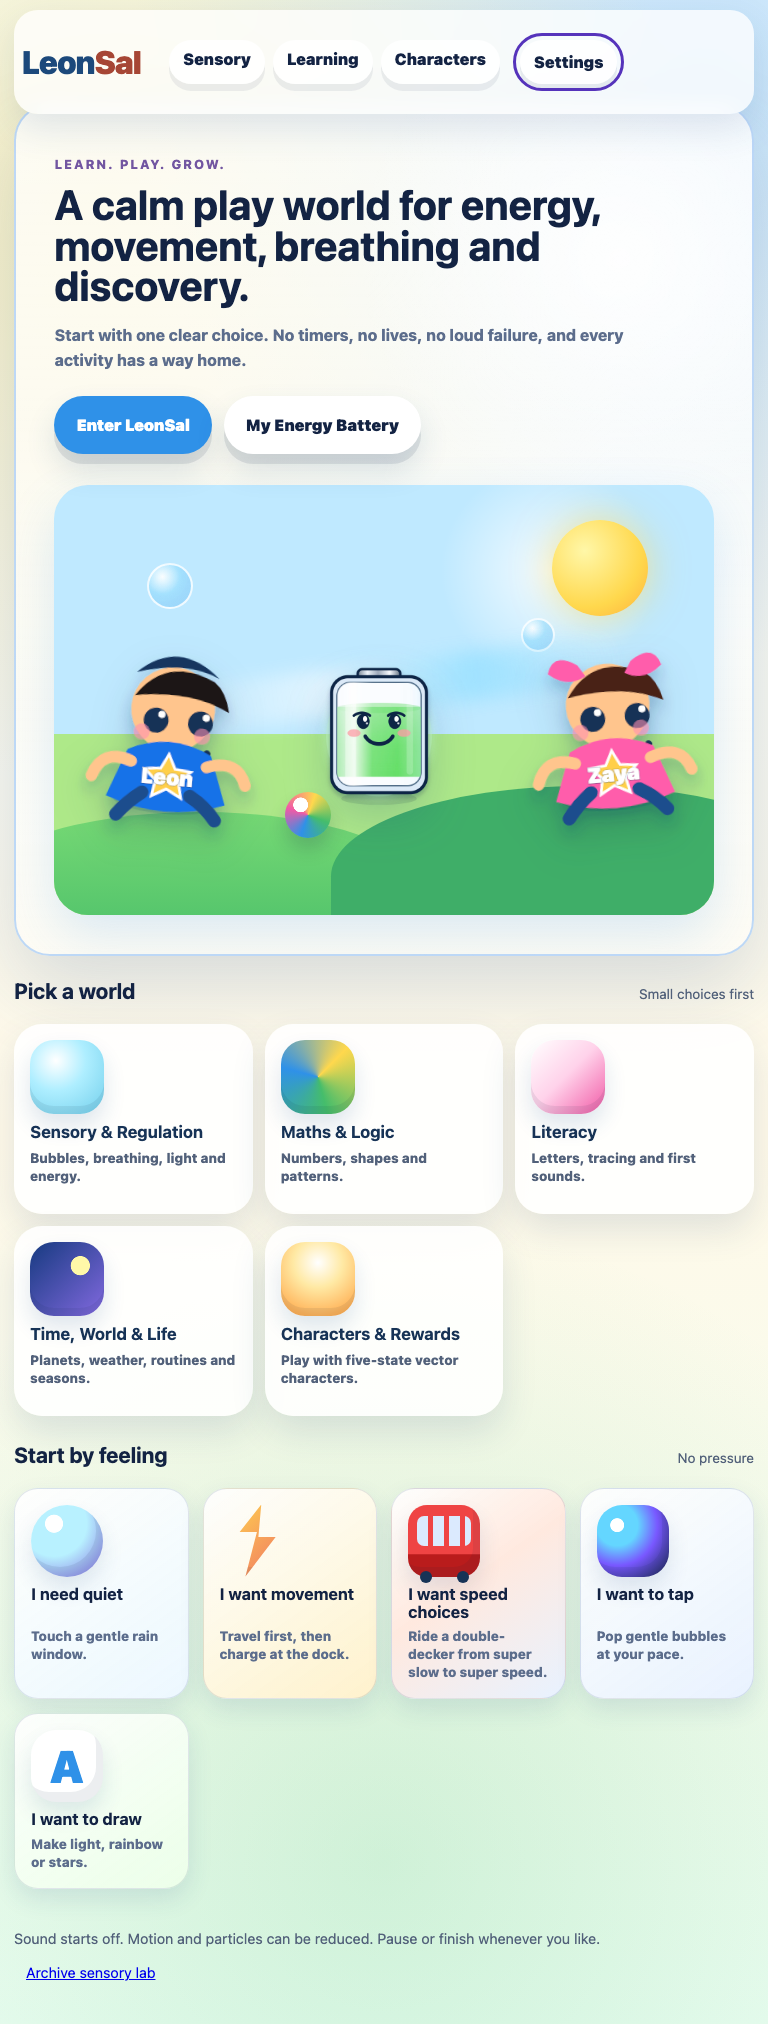
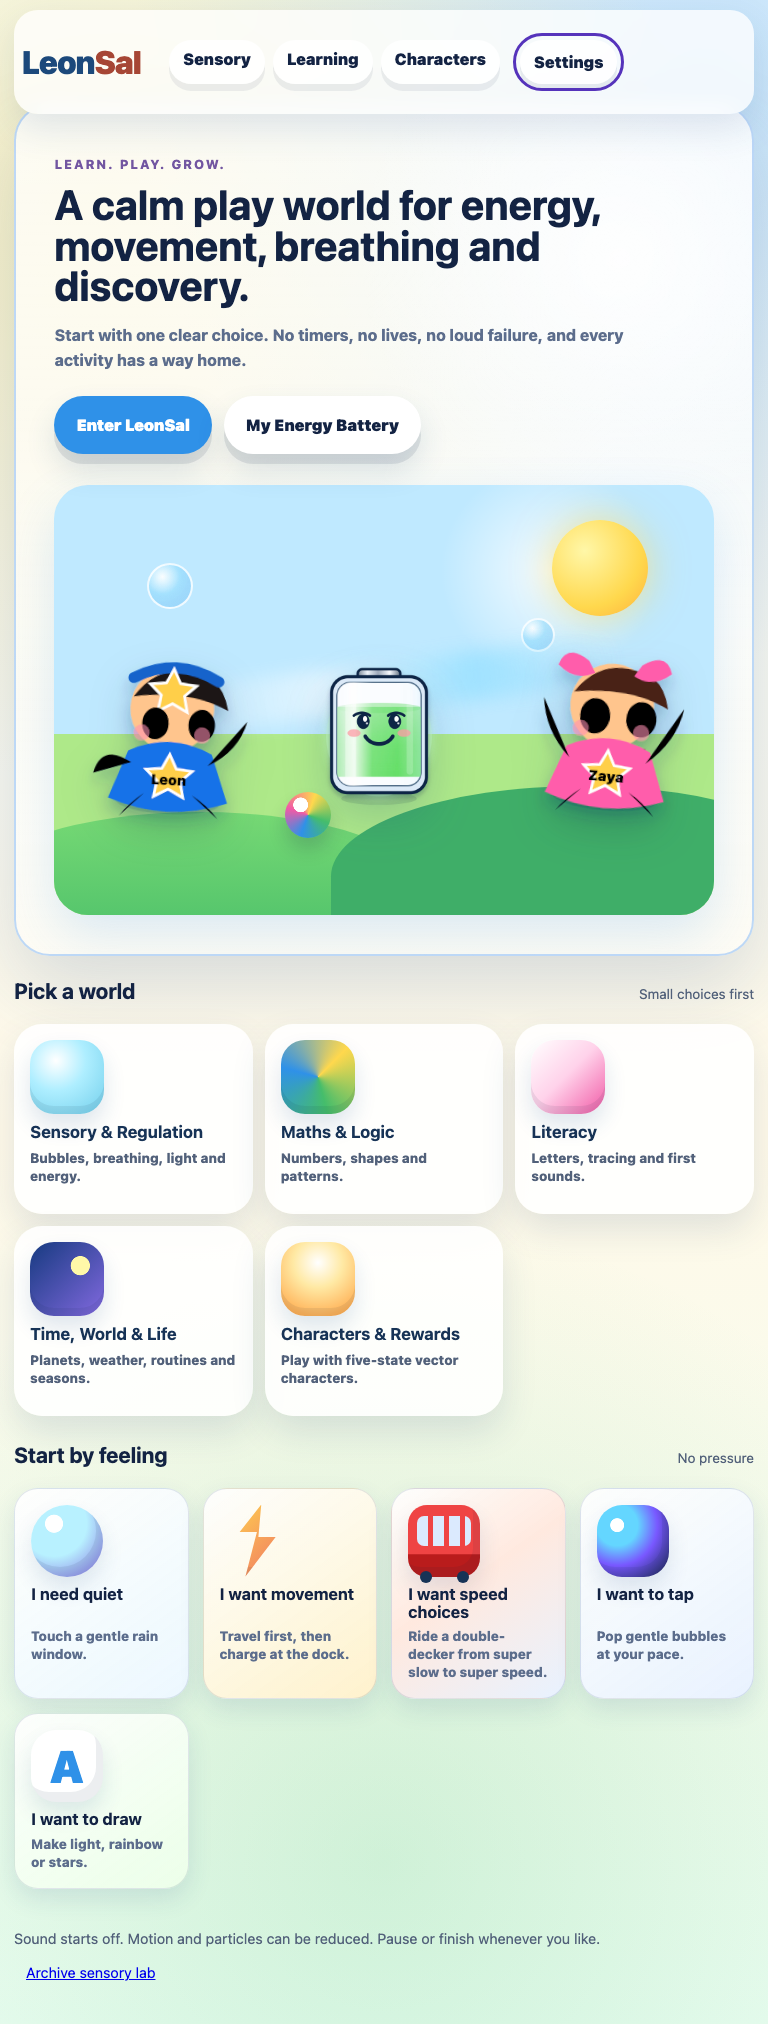
Add shared procedural guide renderer

Changed region(s): [[0.6875, 0.3113, 0.9062, 0.4046], [0.0938, 0.3113, 0.3438, 0.4046]]

diff --git a/js/v2-character-renderer.js b/js/v2-character-renderer.js
@@ -1,0 +1,89 @@
+'use strict';
+
+(() => {
+  const svgNS = 'http://www.w3.org/2000/svg';
+  const guideModels = {
+    leon: { shirt: '#1872e8', hair: '#1d1512', name: 'Leon', accessory: 'headband' },
+    zaya: { shirt: '#ff5dab', hair: '#4a2418', name: 'Zaya', accessory: 'bows' }
+  };
+  const emotions = {
+    empty: { eye: 'closed', mouth: 'sleep', lean: -5, lift: 8, arm: 'rest' },
+    low: { eye: 'tired', mouth: 'soft', lean: -2, lift: 4, arm: 'rest' },
+    calm: { eye: 'open', mouth: 'smile', lean: 0, lift: 0, arm: 'ready' },
+    happy: { eye: 'open', mouth: 'happy', lean: 3, lift: -4, arm: 'wave' },
+    excited: { eye: 'bright', mouth: 'excited', lean: 5, lift: -8, arm: 'celebrate' }
+  };
+
+  function eyeMarkup(kind) {
+    if (kind === 'closed') {
+      return '<path d="M78 100 q14 11 28 0" class="eye-line"/><path d="M130 100 q14 11 28 0" class="eye-line"/>';
+    }
+    if (kind === 'tired') {
+      return '<path d="M76 92 q15 -7 31 0" class="brow"/><path d="M128 92 q15 -7 31 0" class="brow"/><ellipse cx="92" cy="106" rx="12" ry="8" class="eye"/><ellipse cx="144" cy="106" rx="12" ry="8" class="eye"/>';
+    }
+    if (kind === 'bright') {
+      return '<ellipse cx="92" cy="96" rx="17" ry="20" class="eye"/><ellipse cx="144" cy="96" rx="17" ry="20" class="eye"/><circle cx="98" cy="88" r="5" class="catch"/><circle cx="150" cy="88" r="5" class="catch"/>';
+    }
+    return '<ellipse cx="92" cy="100" rx="15" ry="18" class="eye"/><ellipse cx="144" cy="100" rx="15" ry="18" class="eye"/><circle cx="97" cy="93" r="4" class="catch"/><circle cx="149" cy="93" r="4" class="catch"/>';
+  }
+
+  function mouthMarkup(kind) {
+    if (kind === 'sleep') return '<path d="M103 137 q15 -10 30 0" class="mouth sleep-mouth"/>';
+    if (kind === 'soft') return '<path d="M101 136 q17 13 35 0" class="mouth soft-mouth"/>';
+    if (kind === 'happy') return '<path d="M91 132 q27 30 58 0" class="mouth"/><path d="M102 137 q18 14 36 0" class="mouth-fill"/>';
+    if (kind === 'excited') return '<path d="M88 129 q30 40 64 0" class="mouth"/><path d="M101 140 q18 20 39 0" class="mouth-fill"/>';
+    return '<path d="M96 135 q22 20 46 0" class="mouth"/>';
+  }
+
+  function armsMarkup(kind) {
+    if (kind === 'celebrate') {
+      return '<path d="M67 145 q-30 -28 -34 -65" class="skin-limb"/><path d="M153 145 q33 -28 38 -65" class="skin-limb"/>';
+    }
+    if (kind === 'wave') {
+      return '<path d="M67 145 q-34 -20 -42 14" class="skin-limb"/><path d="M153 145 q34 -18 42 -52" class="skin-limb"/>';
+    }
+    if (kind === 'rest') {
+      return '<path d="M68 145 q-24 13 -31 35" class="skin-limb"/><path d="M152 145 q25 13 32 35" class="skin-limb"/>';
+    }
+    return '<path d="M68 145 q-31 -7 -42 20" class="skin-limb"/><path d="M153 145 q32 -7 43 18" class="skin-limb"/>';
+  }
+
+  function makeGuide(id, state = 'happy', options = {}) {
+    const guide = guideModels[id] || guideModels.leon;
+    const emotion = emotions[state] || emotions.happy;
+    const svg = document.createElementNS(svgNS, 'svg');
+    svg.setAttribute('viewBox', '0 0 220 220');
+    svg.setAttribute('role', options.decorative ? 'presentation' : 'img');
+    if (!options.decorative) svg.setAttribute('aria-label', `${guide.name} ${state}`);
+    svg.classList.add('home-guide-svg', `home-guide-${id}`, `guide-state-${state}`);
+    const accessory = guide.accessory === 'bows'
+      ? '<path d="M80 35 q-26 -18 -34 7 q21 18 42 6zM140 35 q26 -18 34 7 q-21 18 -42 6z" fill="#ff5dab"/>'
+      : '<path d="M65 50 q47 -27 96 0" fill="none" stroke="#1263cb" stroke-width="12" stroke-linecap="round"/><path d="M110 38 l8 16 18 2 -13 12 4 18 -17 -9 -16 9 3 -18 -13 -12 18 -2z" fill="#ffcf48" stroke="#fff" stroke-width="3"/>';
+    svg.innerHTML = `
+      <filter id="guideRendererShadow-${id}-${state}" x="-30%" y="-30%" width="160%" height="160%">
+        <feDropShadow dx="0" dy="10" stdDeviation="7" flood-color="#143a6d" flood-opacity=".2"/>
+      </filter>
+      <g transform="translate(0 ${emotion.lift}) rotate(${emotion.lean} 110 112)" filter="url(#guideRendererShadow-${id}-${state})">
+        <ellipse cx="110" cy="188" rx="58" ry="13" fill="#143a6d" opacity=".14"/>
+        <circle cx="110" cy="83" r="47" fill="#ffc58d"/>
+        <path d="M66 71 q32 -48 88 -22 q14 10 19 33 q-44 -22 -107 -11z" fill="${guide.hair}"/>
+        ${accessory}
+        ${eyeMarkup(emotion.eye)}
+        <circle cx="77" cy="111" r="9" fill="#ff8fb1" opacity=".58"/>
+        <circle cx="145" cy="111" r="9" fill="#ff8fb1" opacity=".58"/>
+        ${mouthMarkup(emotion.mouth)}
+        <path d="M63 132 q47 -24 94 0 l20 54 q-67 25 -134 0z" fill="${guide.shirt}"/>
+        ${armsMarkup(emotion.arm)}
+        <path d="M83 179 q-16 12 -27 27" class="clothes-limb"/>
+        <path d="M137 179 q18 10 30 25" class="clothes-limb"/>
+        <path d="M110 134 l8 16 18 2 -13 12 4 18 -17 -9 -16 9 3 -18 -13 -12 18 -2z" fill="#ffcf48" stroke="#fff" stroke-width="3"/>
+        <text x="110" y="168" text-anchor="middle" class="guide-name">${guide.name}</text>
+      </g>`;
+    return svg;
+  }
+
+  window.LeonSalCharacterRenderer = Object.freeze({
+    makeGuide,
+    supportedGuideStates: Object.freeze(Object.keys(emotions))
+  });
+})();

diff --git a/js/v2-home-characters.js b/js/v2-home-characters.js
@@ -44,7 +44,10 @@
   function install() {
     document.querySelectorAll('[data-home-guide]').forEach((target) => {
       target.setAttribute('data-svg-guide', 'true');
-      target.replaceChildren(makeGuide(target.dataset.homeGuide));
+      const renderer = window.LeonSalCharacterRenderer;
+      const guide = target.dataset.homeGuide;
+      const state = guide === 'zaya' ? 'excited' : 'happy';
+      target.replaceChildren(renderer ? renderer.makeGuide(guide, state, { decorative: true }) : makeGuide(guide));
     });
   }
 

diff --git a/index.html b/index.html
@@ -8,6 +8,7 @@
   <title>LeonSal — Learn. Play. Grow.</title>
   <link rel="stylesheet" href="v2-proofs.css">
   <script src="v2-engine.js" defer></script>
+  <script src="js/v2-character-renderer.js" defer></script>
   <script src="js/v2-home-characters.js" defer></script>
   <script src="js/approved-character-image.js" defer></script>
   <script src="js/v2-home.js" defer></script>

diff --git a/v2-home.html b/v2-home.html
@@ -8,6 +8,7 @@
   <title>LeonSal V2 — Sensory World</title>
   <link rel="stylesheet" href="v2-proofs.css">
   <script src="v2-engine.js" defer></script>
+  <script src="js/v2-character-renderer.js" defer></script>
   <script src="js/v2-home-characters.js" defer></script>
   <script src="js/approved-character-image.js" defer></script>
   <script src="js/v2-home.js" defer></script>

diff --git a/sw.js b/sw.js
@@ -44,6 +44,7 @@ const SAFE_ASSETS = [
   './v2-proofs.css',
   './v2-engine.js',
   './js/v2-game-shell.js',
+  './js/v2-character-renderer.js',
   './js/v2-home.js',
   './js/v2-home-characters.js',
   './js/v2-character-world.js',
